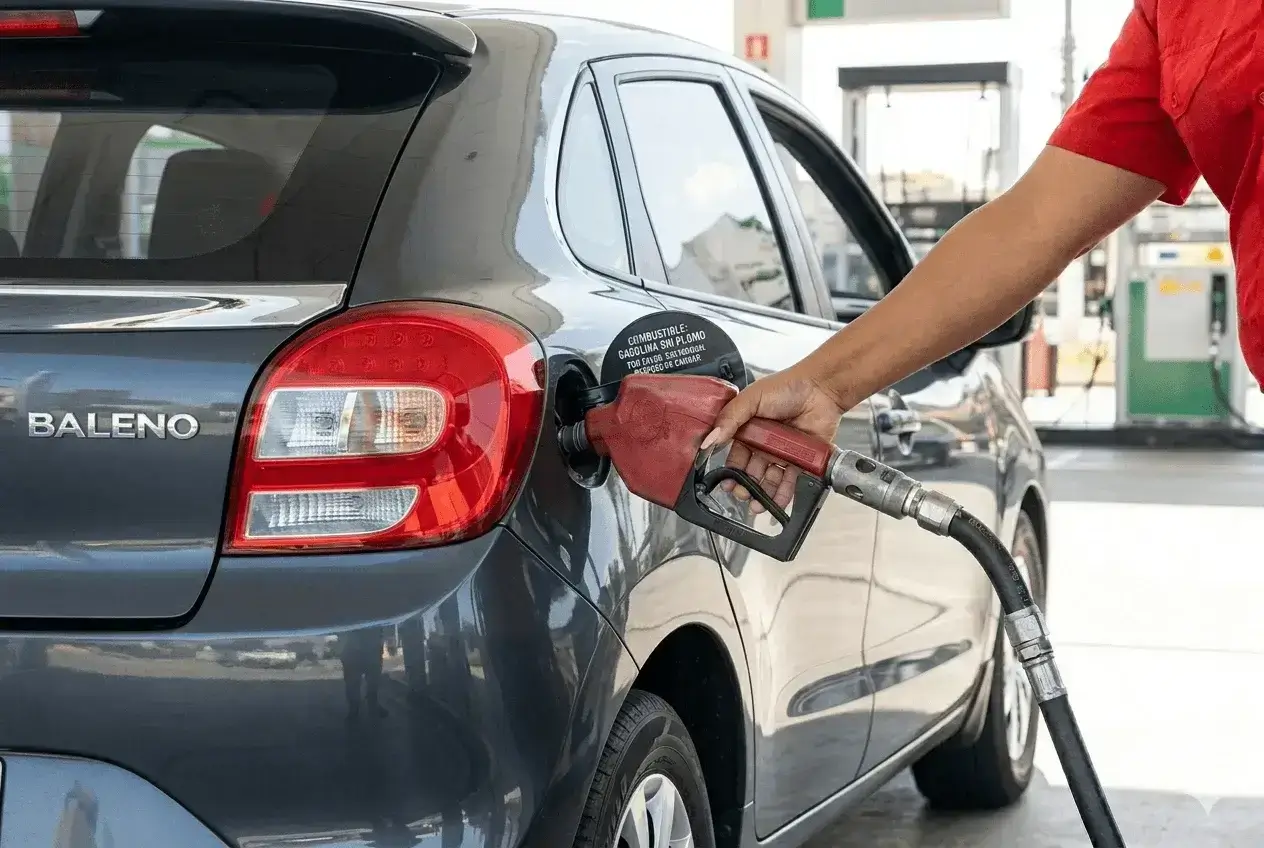
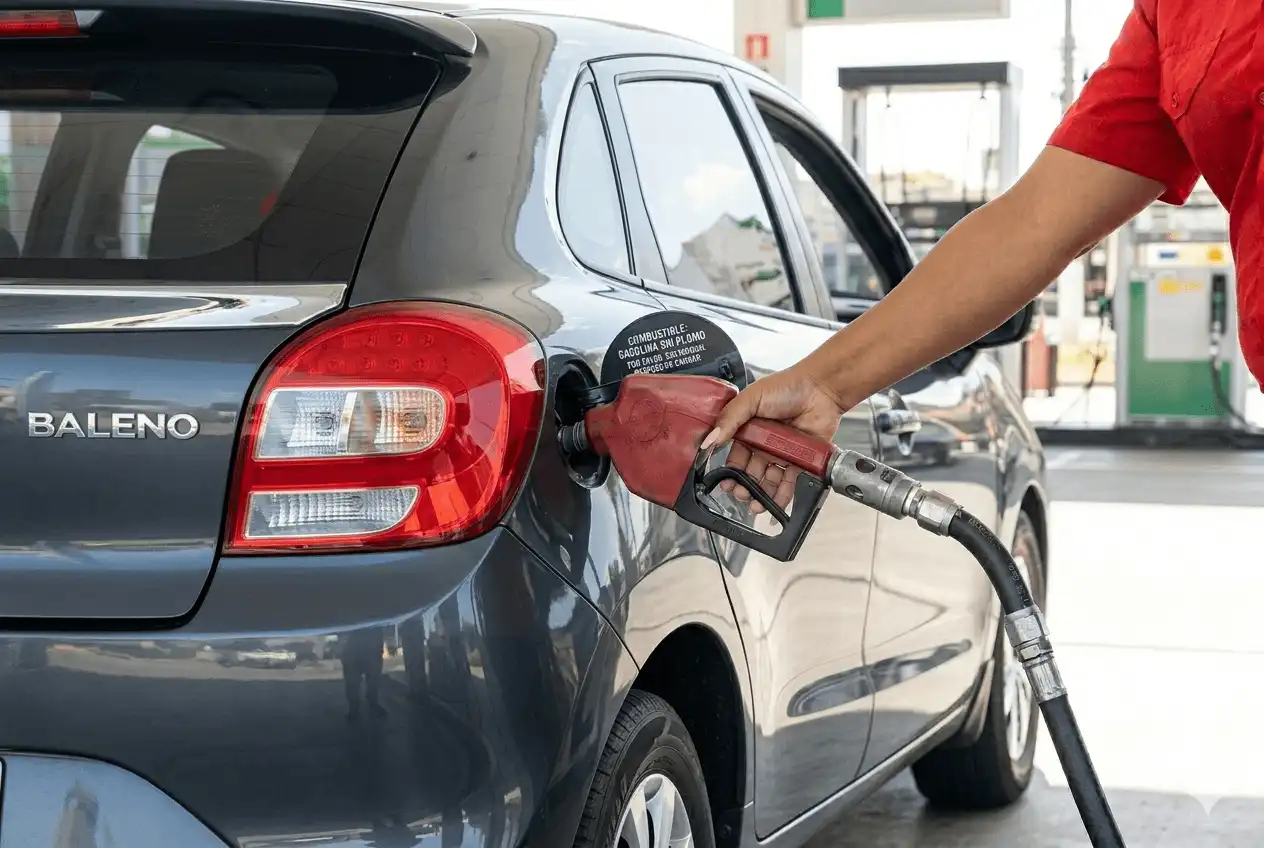
Image Car·

diff --git a/index2.html b/index2.html
@@ -212,8 +212,8 @@
         <div class="pxp-hero vh-100">
             <div class="pxp-hero-bg">
                 <picture>
-                    <source width="1896" height="1272" type="image/webp" srcset="images/image_index_car.webp">
-                    <img width="1896" height="1272" src="images/image_index_car.png?v=2"
+                    <source width="1264" height="848" type="image/webp" srcset="images/image_index_car.webp?v=2">
+                    <img width="1264" height="848" src="images/image_index_car.webp?v=2"
                         alt="Precios de Bencina y Combustibles en Chile" class="pxp-cover pxp-cover-bottom">
                 </picture>
             </div>
